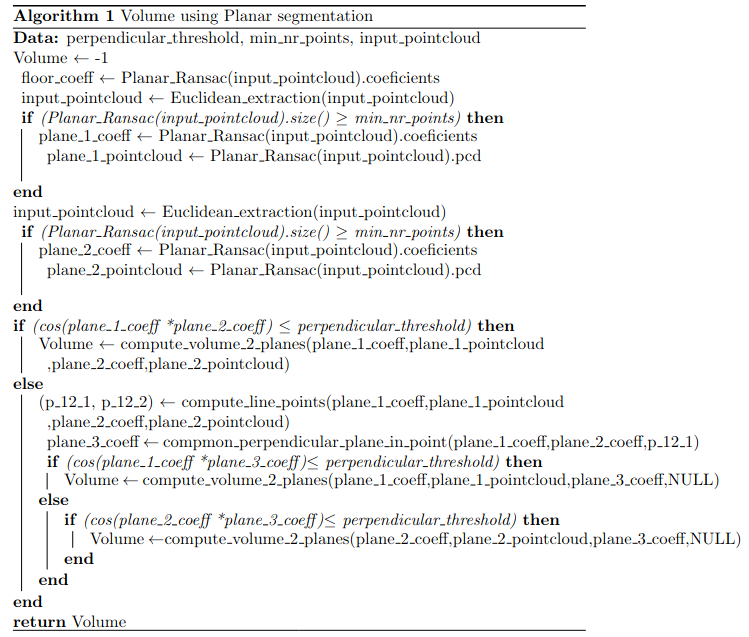
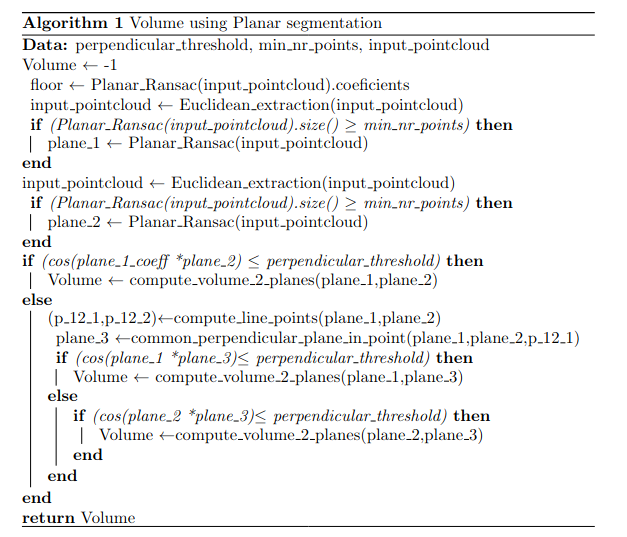
Added pseudo-code

Changed region(s): [[0.0, 0.0, 1.0, 1.0]]

diff --git a/papers/trai/trai.rst b/papers/trai/trai.rst
@@ -391,9 +391,60 @@ The first algorithm iteratively finds the largest plane using RANSAC and uses eu
   
   Planar detection :label:`plamar`
 
+
 An important observation is that it can compute the volume using 2 planes instead of 3. This is due to the fact that if 2 planes are orthogonal, the common line between them will be determined by 2 points that are also corner points for the object. By selecting a corner point and the two perpendicular planes, a third plane can be determined that is perpendicular to the other two and it contains the chosen point. Once the virtual third plane has been computed, the algorithm resumes as in the case with 3 determined planes.
 
-An advantage of this method is that it uses readily available and studied functions for processing pointclouds. For a simple case of a box and floor plane, the algorithm accuracy depends on the level of noise the pointcloud has.
+An advantage of this method is that it uses readily available and studied functions for processing pointclouds. For a simple case of a box and floor plane, the algorithm accuracy depends on the level of noise the pointcloud has. The following code snippets ilustrate the functionality of the Planar Sgmenting Volume computation method using 2 planes.
+
+.. code-block:: python
+    :linenos:
+
+    def volume_main(perp_thresh,min_nr_points,input_pcd)
+    floor=pcl_Planar_Ransac(input_pcd)
+    input_pcd=Euclidean_extraction(input_pcd)
+    if (pcl_Planar_Ransac(input_pcd)>min_nr_points)
+       plane_1=Planar_Ransac(input_pcd)
+    input_pcd=Euclidean_extraction(input_pcd)
+    if(pcl_Planar_Ransac(input_pcd)>min_nr_points)
+      plane_2=pcl_Planar_Ransac(input_pcd)
+    if(cos(plane_1 * plane_2)<perpendicular_threshold>)
+      Volume=compute_volume_2_planes(plane1_plane2)
+    else
+      (p_A, p_B)=line_points(plane_1,plane_2)
+      plane_3=com_perp_plane_point(plane_1,plane_2,p_A)
+      if(cos(plane_1*plane_3)<perpendicular_threshold>)
+        Volume=compute_volume_2_planes(plane_2,plane_3)
+    
+
+
+.. code-block:: python
+    :linenos:
+
+    def compute_volume_2_planes(plane_A,plane_B):
+    (p_AB_1, p_AB_2)=line_points(plane_A,plane_B)
+    plane_C=com_perp_plane_point(plane_A,plane_B,p_AB_1)
+    (p_AC_1,p_AC_2)=line_points(plane_A,plane_C)
+    (p_BC_1,p_BC_2)=line_points(plane_B,plane_C)
+    L1=distance(p_AB_1, p_AB_2)
+    L2=distance(p_AC_1, p_AC_2)
+    L3=distance(p_BC_1, p_BC_2)
+    Volume=L1*L2*L3
+    
+
+
+.. code-block:: python
+    :linenos:
+
+    def line_points(plane_A,plane_B):
+    line_AB_pcd=pcl_project_inliers(plane_A,plane_B)
+    line_BA_pcd=pcl_project_inliers(plane_B,plane_A)
+    line_pcd=concat(line_AB_pcd,line_BA_pcd)
+    (abs_diff_x,p_AB_1_x,p_AB_2_x)=max_diff_x(line_pcd)
+    (abs_diff_y,p_AB_1_y,p_AB_2_y)=max_diff_y(line_pcd)
+    (abs_diff_x,p_AB_1_z,p_AB_2_z)=max_diff_z(line_pcd)
+    diff=max_diff(abs_diff_x,abs_diff_y,abs_diff_z)
+    (pointA, pointB)=points_max_diff(diff)
+
 
 The downside of this method is that it can compute the volume only for one box. Noise and other objects in the scene can totally disrupt the volumetric estimate.
 
@@ -408,34 +459,37 @@ The downside of this method is that it can compute the volume only for one box. 
 
 Due to these shortcomings, a new method for measuring the volume is studied, based on the work by Sommer et. all. Their paper details an algorithm that uses pointclouds with normals computed in each point in order to determine collections of point pairs for which their normals satisfy the orthogonality constraint.  
 The point pair collections will approximate the orthogonal planes. By determining the points contained by each orthogonal plane, projections can be made that approximate the intersecting lines of the orthogonal planes. By selecting the 3 lines that have the edge points closest to each other, volume of a box can be computed.
-The advantage of this method is that it allow the computation of the volume for multiple box shaped objects and it 
+The advantage of this method is that it allow the computation of the volume for multiple box shaped objects.
 
-.. figure:: Alex_pseudo_1.png
-  :width: 1000
-  :height: 1000
-  :scale: 40%
-  :align: left
-  :alt: Pseudo code 
-  
-  Planar detection :label:`pseudo1`
+.. code-block:: python
+    :linenos:
 
-.. figure:: Alex_pseudo_2.png
-  :width: 800
-  :height: 800
-  :scale: 40%
-  :align: left
-  :alt: Pseudo code 
-  
-  Planar detection :label:`pseudo2`
+    def compute_volume_ortho(pcd,dmin,dman,votes,seg,thresh):
+    all_lines=sommer_planes(pcd,dmin,dman,votes,seg)
+    all_triplets=find_line_triplet(thresh,all_lines)
+    for i in all_triplets:
+      line_1=distance(all_triplets[i][0])
+      line_2=distance(all_triplets[i][1])
+      line_3=distance(all_triplets[i][2])
+      Volume[i]=line_1*line_2*line_3
 
-.. figure:: Alex_pseudo_3.png
-  :width: 800
-  :height: 800
-  :scale: 40%
-  :align: left
-  :alt: Pseudo code 
-  
-  Pseudo-code :label:`pseudo3`
+.. code-block:: python
+    :linenos:
+
+    def find_line_triplet(thresh):
+    for i in range(0,size(all_lines-3)):
+     for j in range(i+1,size(all_lines-2)):
+      for k in range(j+1,size(all_lines-1)):
+       average_point=(all_lines[i]+all_lines[j]+all_lines[k])/3
+       if distance_each_to_average<threshold:
+          add_triplet(all_triplets)
+    
+
+
+
+
+
+
 
 .. figure:: ortho_volume.png
   :width: 400
